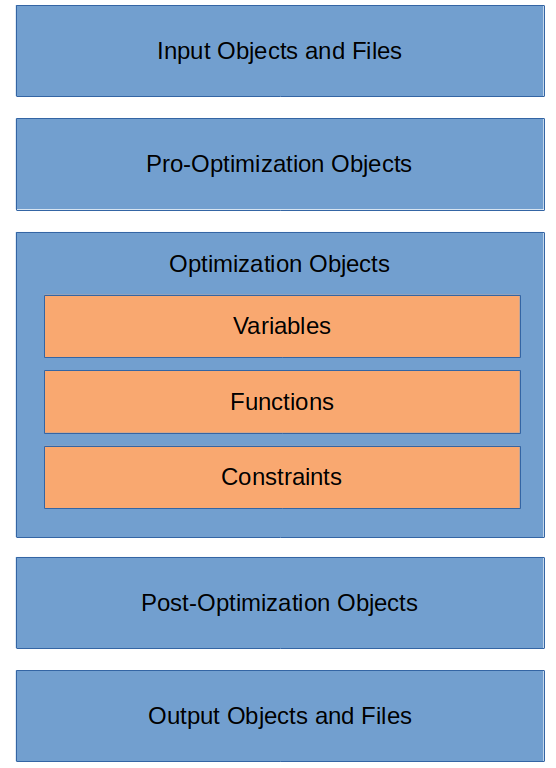
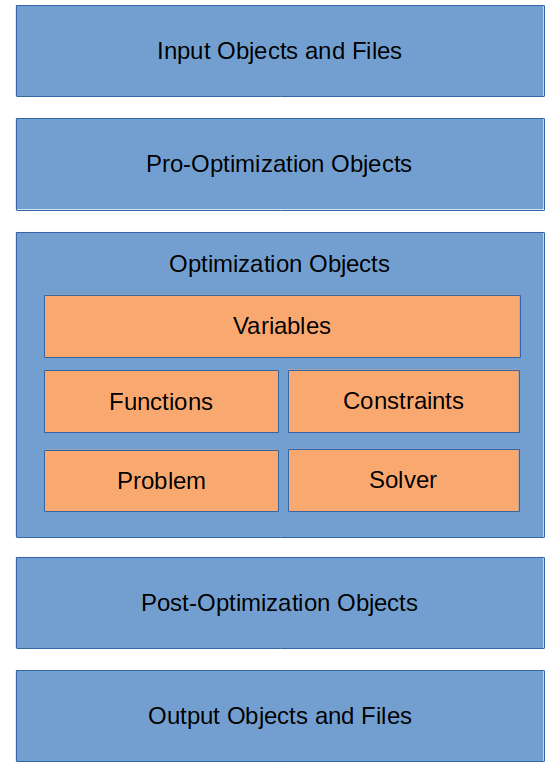
done with annotations section

Changed region(s): [[0.0612, 0.4688, 0.9478, 0.6875]]

diff --git a/src/start.rst b/src/start.rst
@@ -9,9 +9,9 @@ Using the Service
 
 There are three ways to use MOS:
 
-1. **MOS demo**: This is a simple way to run MOS locally on your machine to try the service. It runs all MOS components in `docker <https://www.docker.com/>`_ images using `docker-compose <https://www.docker.com/>`_. It uses development servers NOT suitable for production-grade applications needing performance and security. It is just for demo purposes. Instructions for launching the demo can be found `here <https://github.com/Fuinn/mos-demo>`_. 
+1. **MOS demo**: This is a simple way to run MOS locally on your machine to try the service. It runs all MOS components in `docker <https://www.docker.com/>`_ images using `docker-compose <https://www.docker.com/>`_. It uses development servers NOT suitable for any serious work requiring performance and security. It is just for demo purposes. Instructions for launching the demo can be found `here <https://github.com/Fuinn/mos-demo>`_. 
 
-2. **MOS cloud**: Access and use MOS hosted on the cloud with performance and security features. (Coming soon)
+2. **MOS cloud**: Access and use MOS hosted on the cloud with performance and security features. (Coming soon).
 
 3. **MOS on-premise**: Deploy MOS on a private network and servers by working directly with the :ref:`code repositories <resources_code>`.
 
@@ -20,8 +20,38 @@ For help or questions, `reach out to us <mailto:hello@fuinn.ie>`_.
 Annotating Models
 =================
 
+Annotating a model code is necessary for informing MOS of the various model components that are imporant and need to be exposed on the model interface. Annotations have the general form below::
+
+   #@ Tag: Name
+   #@ Key1: Value1
+   #@ Key2: Value2
+   #@ ...
+
+Supported tags are the following:
+
+* *model*: Provides the name of the model.
+* *input file*: Provides the name of an input files that can be provided to the model.
+* *input object*:  Provides the name of an input (JSON-serializable) objet that can be provided to the model.
+* *helper object*: Provides the name of a pre- or post-optimization (JSON-serializable) helper object.
+* *variable*: Provides the name of an object representing an optimization variable (or collection of scalar variables).
+* *function*: Provides the name of an object representing an optimization function (or collection of scalar-valued functions).
+* *constraint*: Provides the name of an object representing an optimization constraint (or collection of constraints).
+* *problem*: Provides the name of an object representing the optimization problem.
+* *solver*: Provides the name of an object representing the optimization solver.
+* *output file*: Provides the name of an output file that the model produces.
+* *output object*: Provides the name of an output (JSON-serializable) object that the model produces.
+
+Supported keys are the following:
+
+* *description*: Provides a single-line description for the annotated object. Latex expressions enclosed in $$ pairs are supported.
+* *labels*: Provides the name of an object with the same dimensions and structure of the annotated object that provides labels for each component.
+
+For sample annotated models in various modeling systems, please check out our `examples <https://github.com/Fuinn/mos-examples>`_.
+
 Deploying Models
 ================
+
+(Try using sphinx-tabs, sphinx-code-tabs, sphinx-inline-tabs)
 
 Interacting with Models
 =======================
@@ -29,6 +59,9 @@ Interacting with Models
 Monitoring Models
 =================
 
+Coming soon.
+
 Saving and Loading Models
 =========================
 
+Coming Soon.

diff --git a/src/resources.rst b/src/resources.rst
@@ -11,8 +11,8 @@ Documentation
 * MOS backend documentation (coming soon)
 * MOS frontend documentation (coming soon)
 * MOS compute worker and kernels documentation (coming soon)
-* `MOS Python interface documentation <https://fuinn.github.io/mos-interface-py/>`_
-* `MOS Julia interface documentation <https://fuinn.github.io/mos-interface-jl/>`_
+* `MOS interface documentation (Python) <https://fuinn.github.io/mos-interface-py/>`_
+* `MOS interface documentation (Julia) <https://fuinn.github.io/mos-interface-jl/>`_
 
 Papers
 ======
@@ -38,8 +38,8 @@ Code Repositories
 * `MOS demo code repository <https://github.com/Fuinn/mos-demo>`_
 * `MOS backend code repository <https://github.com/Fuinn/mos-backend>`_
 * `MOS frontend code repository <https://github.com/Fuinn/mos-frontend>`_
-* `MOS Python compute worker code repository <https://github.com/Fuinn/mos-compute-py>`_
-* `MOS Julia compute worker code repository <https://github.com/Fuinn/mos-compute-jl>`_
-* `MOS Python interface code repository <https://github.com/Fuinn/mos-interface-py>`_
-* `MOS Julia interface code repository <https://github.com/Fuinn/mos-interface-jl>`_
+* `MOS compute worker code repository (Python) <https://github.com/Fuinn/mos-compute-py>`_
+* `MOS compute worker code repository (Julia) <https://github.com/Fuinn/mos-compute-jl>`_
+* `MOS interface code repository (Python) <https://github.com/Fuinn/mos-interface-py>`_
+* `MOS interface code repository (Julia) <https://github.com/Fuinn/mos-interface-jl>`_
 

diff --git a/src/overview.rst b/src/overview.rst
@@ -7,11 +7,11 @@ Overview
 What is MOS?
 ============
 
-MOS is a software application designed to facilitate the deploymnet, integration, management, and analysis of mathematical optimization models. 
+MOS is a software application designed to facilitate the deployment, integration, management, and analysis of mathematical optimization models. 
 Some of the key benefits provided are the following:
 
 * Models can be easily uploaded to the application after adding simple annotations to the model code.
-* Models can then be accessed via various available interfaces, including a REST API, a web graphical user interface, and client libraries in popular programming languages such as Python and Julia. 
+* Models can be accessed via various available interfaces, including a REST API, a web graphical user interface, and client libraries in popular programming languages such as Python and Julia. 
 * Models can be run with different inputs by workers running locally or distributed over the network. 
 * Intermediate and end results can be extracted, browsed, and analyzed. 
 * Model performance and usage can be monitored and visualized.
